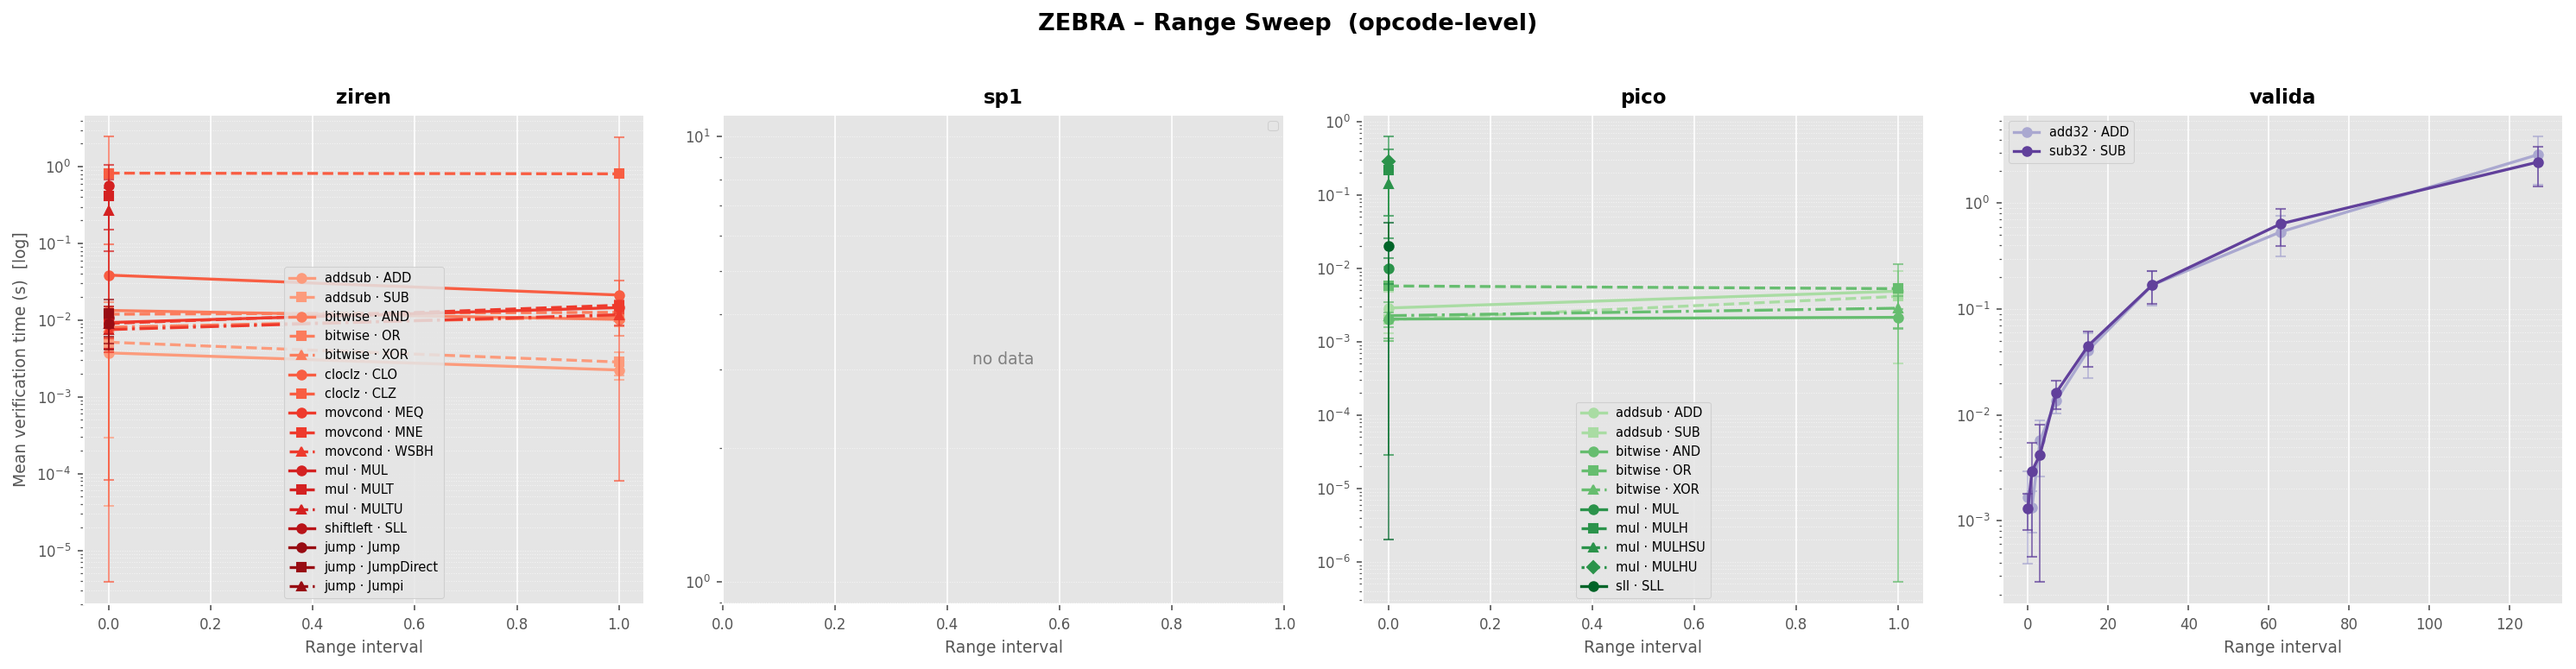
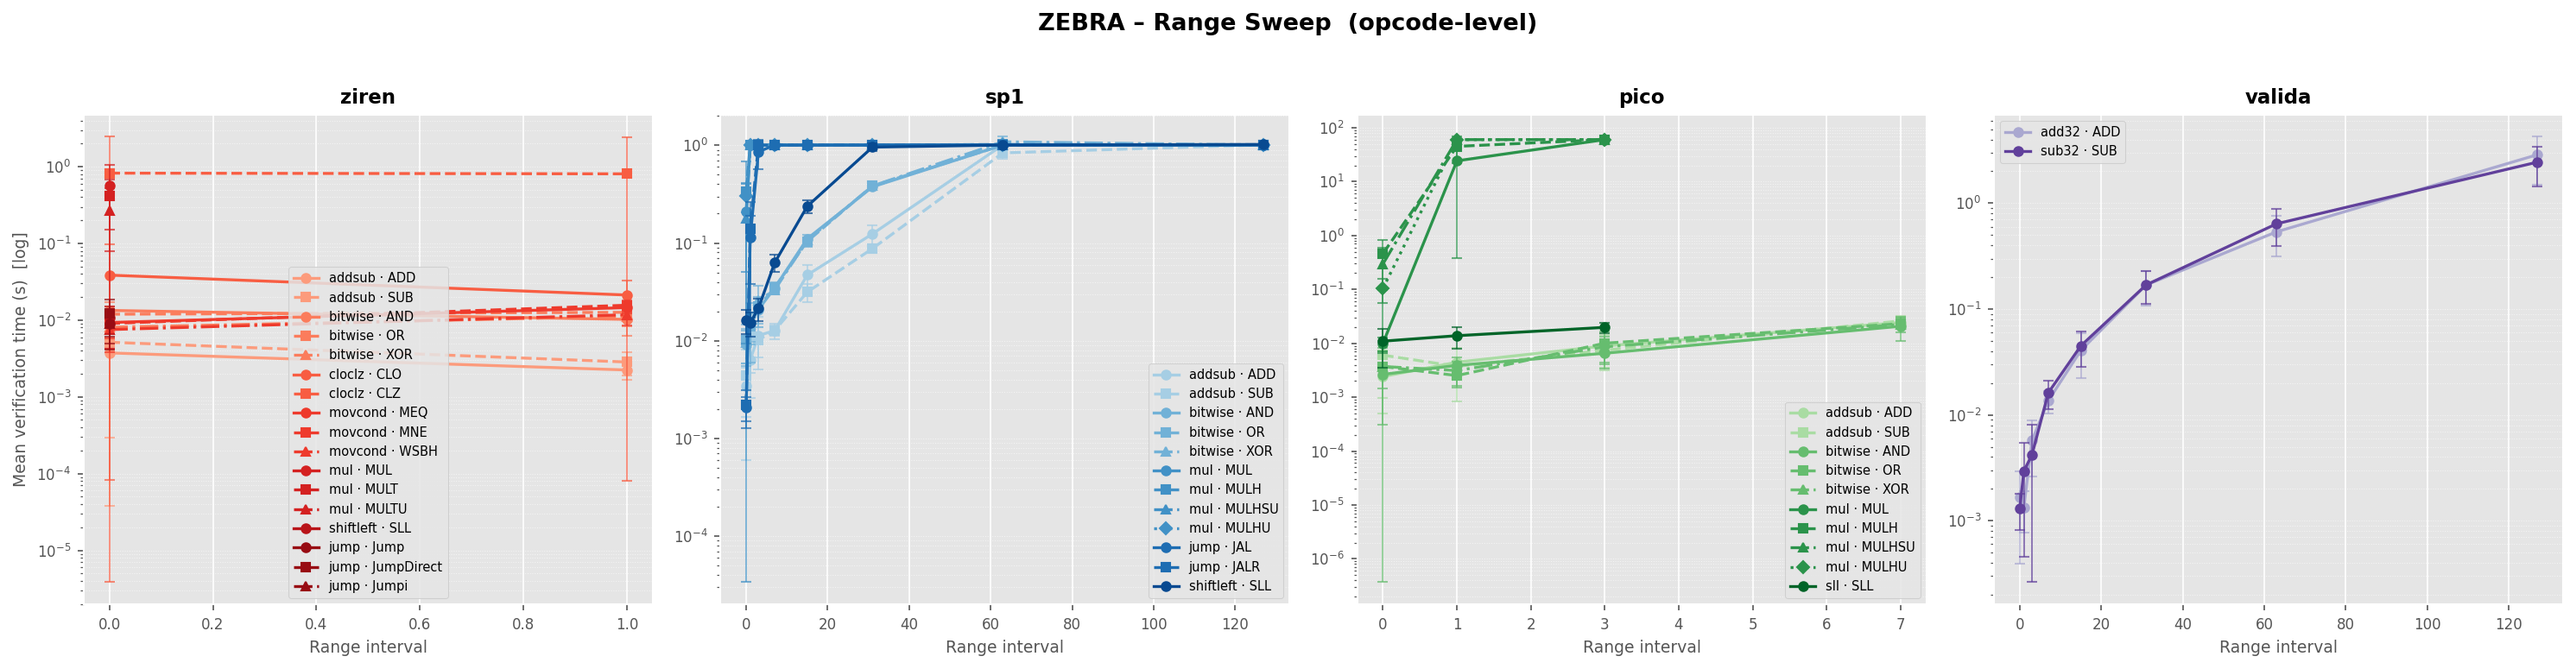
update

diff --git a/examples/sp1/examples/bitwise.rs b/examples/sp1/examples/bitwise.rs
@@ -16,9 +16,7 @@ use zebra::quick::{
 use zebra::solver::nop_post_process;
 use zebra::utils::create_or_clear_dir;
 
-use zebra_sp1::utils::{
-    extract_constraints_and_range, generate_abstract_trace, get_program_str,
-};
+use zebra_sp1::utils::{extract_constraints_and_range, generate_abstract_trace, get_program_str};
 
 pub fn target_program(opcode: Opcode, pc_start: u32, pc_base: u32, x: u32, y: u32) -> Program {
     let instructions = vec![Instruction::new(opcode, 1, x, y, true, true)];
@@ -89,7 +87,6 @@ fn main() -> Result<(), io::Error> {
             );
             search_config.minimum_num_taregt_cols = new_constraint_info.refinable_cols.len();
         }
-        println!("{:?}", new_constraint_info.range_types);
         let x: u32 = rng.random();
         let y: u32 = rng.random();
 
